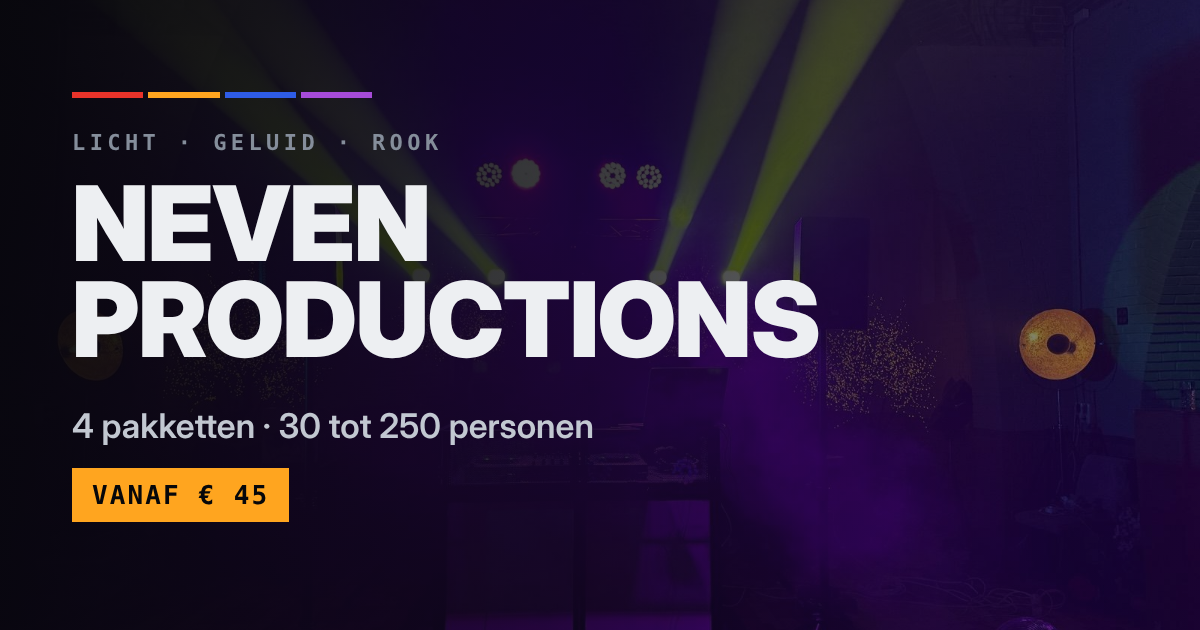
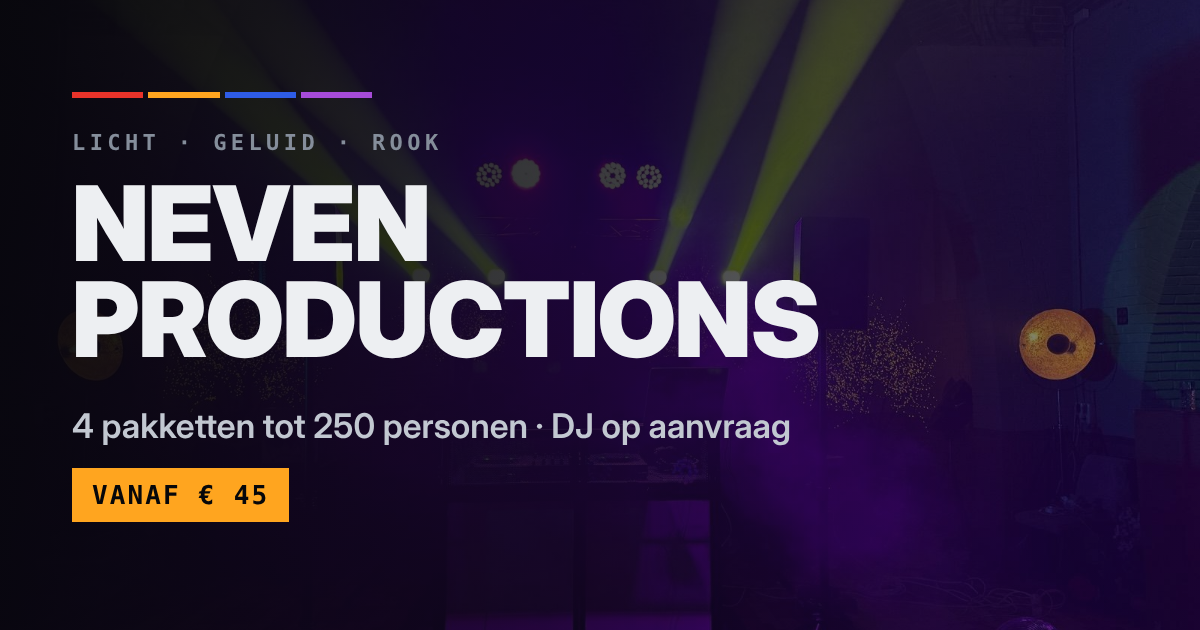
DJ-optie (+ EUR 300), 0-250 personen, editmodus
- Prijzen expliciet excl. DJ, DJ-blok onder de pakketten, DJ-keuze in het formulier
- Cijferstrook: Personen 0-250; meta en og.png bijgewerkt
- edit.js: klik-en-opmerking-modus met ?edit

Claude-Session: https://claude.ai/code/session_01Jk3uGoYRtaEHee8C5ffJiW

Changed region(s): [[0.2158, 0.6333, 0.6783, 0.6937]]

diff --git a/index.html b/index.html
@@ -3,8 +3,8 @@
 <head>
 <meta charset="utf-8" />
 <meta name="viewport" content="width=device-width, initial-scale=1, viewport-fit=cover" />
-<title>Neven Productions — licht, geluid en DJ voor jouw avond</title>
-<meta name="description" content="Licht, geluid en rook voor je feest. Vier pakketten voor 30 tot 250 personen, vanaf € 45." />
+<title>Neven Productions — licht, geluid en rook, DJ op aanvraag</title>
+<meta name="description" content="Licht, geluid en rook voor je feest. Vier pakketten tot 250 personen, vanaf € 45. DJ op aanvraag." />
 <meta name="theme-color" content="#06070a" />
 <link rel="icon" href="favicon.svg" type="image/svg+xml" />
 
@@ -13,7 +13,7 @@
 <meta property="og:type" content="website" />
 <meta property="og:site_name" content="Neven Productions" />
 <meta property="og:title" content="Neven Productions — licht, geluid en DJ" />
-<meta property="og:description" content="Vier pakketten voor feesten van 30 tot 250 personen, vanaf € 45." />
+<meta property="og:description" content="Vier pakketten voor feesten tot 250 personen, vanaf € 45. DJ op aanvraag." />
 <meta property="og:url" content="https://[jouwdomein.nl]/" />
 <meta property="og:image" content="og.png" />
 <meta property="og:image:width" content="1200" />
@@ -251,6 +251,13 @@ footer .rijen{display:flex; flex-wrap:wrap; gap:.75rem 2rem; justify-content:spa
 @media (min-width:900px){ .cases.vier{grid-template-columns:repeat(2,1fr); align-items:stretch} }
 @media (min-width:1180px){ .cases.vier{grid-template-columns:repeat(4,1fr)} }
 
+/* DJ-optie onder de pakketten */
+.dj-optie{margin-top:1.5rem; display:grid; gap:.25rem 1.5rem; align-items:center; background:var(--haze);
+  border:var(--rand); border-left:4px solid rgb(var(--gel-015)); padding:1rem 1.25rem}
+.dj-optie .oog{margin:0; color:rgb(var(--gel-015))}
+.dj-optie p:last-child{margin:0; max-width:none}
+@media (min-width:760px){ .dj-optie{grid-template-columns:auto 1fr} }
+
 /* Kies je kleur */
 .sfeer{display:grid; gap:1.25rem; margin-top:2rem}
 @media (min-width:860px){ .sfeer{grid-template-columns:minmax(0,2fr) minmax(0,1fr); align-items:center} }
@@ -299,7 +306,7 @@ html.intro-loopt body{overflow:hidden}
   let gezien = false;
   try { gezien = sessionStorage.getItem('np-intro') === '1'; } catch (e) {}
   const rustig = matchMedia('(prefers-reduced-motion: reduce)').matches;
-  if (gezien || rustig || /[?&]intro=uit/.test(location.search)) { el.remove(); return; }
+  if (gezien || rustig || /[?&](intro=uit|edit)/.test(location.search)) { el.remove(); return; }
   try { sessionStorage.setItem('np-intro', '1'); } catch (e) {}
   document.documentElement.classList.add('intro-loopt');
 
@@ -505,7 +512,7 @@ html.intro-loopt body{overflow:hidden}
 
 <dl class="cijfers">
   <div><dt>Pakketten</dt><dd>4</dd></div>
-  <div><dt>Gasten</dt><dd>30–250</dd></div>
+  <div><dt>Personen</dt><dd>0–250</dd></div>
   <div><dt>Vanaf</dt><dd>€ 45</dd></div>
   <div><dt>Reactie op aanvraag</dt><dd>&lt;24u</dd></div>
 </dl>
@@ -529,7 +536,7 @@ html.intro-loopt body{overflow:hidden}
         <li>1× JBL PartyBox 310</li>
         <li>2× LED-par op T-bar</li>
       </ul>
-      <p class="prijs"><b>€ 45</b><span>per feest</span></p>
+      <p class="prijs"><b>€ 45</b><span>excl. DJ</span></p>
       <a class="knop" href="#boeken" data-pakket="Tot 30">Dit pakket aanvragen</a>
     </article>
     <article class="case" style="--gel:var(--gel-126)">
@@ -544,7 +551,7 @@ html.intro-loopt body{overflow:hidden}
         <li>4× LED-par op T-bar</li>
         <li>1× rookmachine 900 W</li>
       </ul>
-      <p class="prijs"><b>€ 85</b><span>per feest</span></p>
+      <p class="prijs"><b>€ 85</b><span>excl. DJ</span></p>
       <a class="knop" href="#boeken" data-pakket="Tot 50">Dit pakket aanvragen</a>
     </article>
     <article class="case aanbevolen" style="--gel:var(--gel-015)">
@@ -560,7 +567,7 @@ html.intro-loopt body{overflow:hidden}
         <li>1× LED football moving head</li>
         <li>1× rookmachine 900 W</li>
       </ul>
-      <p class="prijs"><b>€ 200</b><span>per feest</span></p>
+      <p class="prijs"><b>€ 200</b><span>excl. DJ</span></p>
       <a class="knop vol" href="#boeken" data-pakket="Tot 150">Dit pakket aanvragen</a>
     </article>
     <article class="case" style="--gel:var(--gel-106)">
@@ -577,9 +584,13 @@ html.intro-loopt body{overflow:hidden}
         <li>T-bar met 4× LED-par 200 W</li>
         <li>1× rookmachine 900 W</li>
       </ul>
-      <p class="prijs"><b>€ 300</b><span>per feest</span></p>
+      <p class="prijs"><b>€ 300</b><span>excl. DJ</span></p>
       <a class="knop" href="#boeken" data-pakket="Tot 250">Dit pakket aanvragen</a>
     </article>
+  </div>
+  <div class="dj-optie">
+    <p class="oog">Optie</p>
+    <p><b>DJ erbij?</b> Alle prijzen zijn exclusief DJ. Wil je er een DJ bij die de hele avond draait, dan komt er <b>€ 300</b> bij.</p>
   </div>
   <p class="klein">Prijzen per feest. Reisafstand of iets extra's bespreken we vooraf.</p>
 </section>
@@ -689,6 +700,13 @@ html.intro-loopt body{overflow:hidden}
         <option selected>Weet ik nog niet</option>
       </select>
     </div>
+    <div class="veld"><label for="fDj">DJ erbij (+ € 300)</label>
+      <select id="fDj">
+        <option>Nee, zonder DJ</option>
+        <option>Ja, met DJ</option>
+        <option>Weet ik nog niet</option>
+      </select>
+    </div>
     <div class="veld"><label for="fMeer">Toelichting</label>
       <textarea id="fMeer" placeholder="Wat voor avond wordt het? Is er al een installatie? Hoe laat kan ik erin?"></textarea></div>
 
@@ -740,7 +758,8 @@ function bericht() {
     `Datum: ${datum}`,
     `Locatie: ${v('fPlek') || '-'}`,
     `Aantal gasten: ${v('fGasten') || '-'}`,
-    `Pakket: ${$('fPakket').value}`, '',
+    `Pakket: ${$('fPakket').value}`,
+    `DJ: ${$('fDj').value}`, '',
     v('fMeer') || 'Geen toelichting.',
   ].join('\n');
 }
@@ -791,6 +810,9 @@ document.querySelectorAll('.kleuren button').forEach(knop => {
 });
 
 bijwerken();
+
+/* Editmodus voor het bijwerken van de site: alleen met ?edit in de URL */
+if (/[?&]edit/.test(location.search)) { const e = document.createElement('script'); e.src = 'edit.js'; document.body.appendChild(e); }
 </script>
 </body>
 </html>

diff --git a/edit.js b/edit.js
@@ -1,0 +1,99 @@
+/* Editmodus — alleen actief met ?edit in de URL. Klik een element aan, typ een opmerking.
+   Opmerkingen staan in localStorage ('np-edit') en in window.__opmerkingen, zodat Claude ze kan uitlezen. */
+(() => {
+  const KEY = 'np-edit';
+  const laad = () => { try { return JSON.parse(localStorage.getItem(KEY) || '[]'); } catch (e) { return []; } };
+  const bewaar = l => { try { localStorage.setItem(KEY, JSON.stringify(l)); } catch (e) {} window.__opmerkingen = l; };
+  let lijst = laad(); window.__opmerkingen = lijst;
+  let kiezen = true, open = null;
+
+  const css = document.createElement('style');
+  css.textContent = `
+  .npe-hover{outline:2px dashed #ffa51f !important; outline-offset:2px !important; cursor:crosshair !important}
+  .npe-ui,.npe-ui *{font:13px/1.4 ui-monospace,Menlo,monospace !important; letter-spacing:0 !important; text-transform:none !important}
+  .npe-balk{position:fixed; left:12px; bottom:12px; z-index:2147483000; display:flex; gap:6px; align-items:center;
+    background:#111; color:#eee; border:1px solid #ffa51f; padding:6px 8px}
+  .npe-balk button,.npe-pop button{background:#222; color:#eee; border:1px solid #444; padding:5px 9px; cursor:pointer}
+  .npe-balk button.aan{background:#ffa51f; color:#000; border-color:#ffa51f}
+  @media (max-width:759px){ .npe-balk{bottom:76px} }
+  .npe-pop{position:fixed; z-index:2147483001; width:min(340px,92vw); background:#111; color:#eee; border:1px solid #ffa51f; padding:10px}
+  .npe-pop textarea{width:100%; min-height:80px; background:#000; color:#fff; border:1px solid #444; padding:6px; box-sizing:border-box}
+  .npe-pop .wat{color:#999; margin-bottom:6px; max-height:3.6em; overflow:hidden}
+  .npe-pop .rij{display:flex; gap:6px; justify-content:flex-end; margin-top:6px}
+  .npe-nr{position:absolute; z-index:2147482999; background:#ffa51f; color:#000; font:700 11px/18px ui-monospace,monospace;
+    min-width:18px; height:18px; text-align:center; border-radius:9px; pointer-events:none}`;
+  document.head.appendChild(css);
+
+  const balk = document.createElement('div'); balk.className = 'npe-ui npe-balk';
+  balk.innerHTML = `<b>Editmodus</b><button data-a="kies" class="aan">Selecteren: aan</button>
+    <span data-a="n"></span><button data-a="kopie">Kopieer</button><button data-a="wis">Wis alles</button>`;
+  document.body.appendChild(balk);
+
+  function selector(el) {
+    if (el.id) return '#' + el.id;
+    const pad = [];
+    while (el && el !== document.body && pad.length < 6) {
+      let s = el.tagName.toLowerCase();
+      if (el.id) { pad.unshift('#' + el.id); break; }
+      const cls = [...el.classList].filter(c => !c.startsWith('npe-'))[0];
+      if (cls) s += '.' + cls;
+      const p = el.parentElement;
+      if (p) { const zus = [...p.children].filter(c => c.tagName === el.tagName); if (zus.length > 1) s += `:nth-of-type(${zus.indexOf(el) + 1})`; }
+      pad.unshift(s); el = p;
+    }
+    return pad.join(' > ');
+  }
+  const omschrijf = el => (el.alt || el.getAttribute('aria-label') || el.innerText || el.tagName).replace(/\s+/g, ' ').trim().slice(0, 90);
+
+  function teken() {
+    document.querySelectorAll('.npe-nr').forEach(n => n.remove());
+    lijst.forEach((o, i) => {
+      const el = document.querySelector(o.selector); if (!el) return;
+      const r = el.getBoundingClientRect(), n = document.createElement('div');
+      n.className = 'npe-nr'; n.textContent = i + 1;
+      n.style.left = (r.left + scrollX - 6) + 'px'; n.style.top = (r.top + scrollY - 6) + 'px';
+      document.body.appendChild(n);
+    });
+    balk.querySelector('[data-a=n]').textContent = `${lijst.length} opmerking${lijst.length === 1 ? '' : 'en'}`;
+  }
+
+  function popup(el, x, y) {
+    sluit();
+    const p = document.createElement('div'); p.className = 'npe-ui npe-pop';
+    p.innerHTML = `<div class="wat"></div><textarea placeholder="Wat moet hier anders?"></textarea>
+      <div class="rij"><button data-a="weg">Annuleer</button><button data-a="ok">Opslaan</button></div>`;
+    p.querySelector('.wat').textContent = '→ ' + omschrijf(el);
+    p.style.left = Math.min(x, innerWidth - 360) + 'px'; p.style.top = Math.min(y + 12, innerHeight - 190) + 'px';
+    document.body.appendChild(p); open = p; p.querySelector('textarea').focus({ preventScroll: true });
+    p.addEventListener('click', e => {
+      const a = e.target.dataset.a; if (!a) return;
+      if (a === 'ok') {
+        const t = p.querySelector('textarea').value.trim();
+        if (t) { lijst.push({ selector: selector(el), element: omschrijf(el), opmerking: t, tijd: new Date().toISOString() }); bewaar(lijst); }
+      }
+      sluit(); teken();
+    });
+    p.addEventListener('keydown', e => { if (e.key === 'Enter' && (e.metaKey || e.ctrlKey)) p.querySelector('[data-a=ok]').click(); if (e.key === 'Escape') sluit(); });
+  }
+  function sluit() { if (open) { open.remove(); open = null; } }
+
+  let vorige = null;
+  document.addEventListener('mouseover', e => {
+    if (!kiezen || e.target.closest('.npe-ui')) return;
+    vorige && vorige.classList.remove('npe-hover'); vorige = e.target; vorige.classList.add('npe-hover');
+  }, true);
+  document.addEventListener('click', e => {
+    if (e.target.closest('.npe-ui')) return;
+    if (!kiezen) return;
+    e.preventDefault(); e.stopPropagation();
+    e.target.classList.remove('npe-hover'); popup(e.target, e.clientX, e.clientY);
+  }, true);
+
+  balk.addEventListener('click', e => {
+    const a = e.target.dataset.a;
+    if (a === 'kies') { kiezen = !kiezen; e.target.classList.toggle('aan', kiezen); e.target.textContent = 'Selecteren: ' + (kiezen ? 'aan' : 'uit'); vorige && vorige.classList.remove('npe-hover'); }
+    if (a === 'kopie') navigator.clipboard && navigator.clipboard.writeText(lijst.map((o, i) => `${i + 1}. [${o.element}] ${o.opmerking}`).join('\n'));
+    if (a === 'wis') { lijst = []; bewaar(lijst); teken(); }
+  });
+  addEventListener('resize', teken); addEventListener('load', teken); setTimeout(teken, 800);
+})();

diff --git a/README.md b/README.md
@@ -10,7 +10,7 @@ WhatsApp-groepen.
 |---|---|
 | `index.html` | de hele site: opmaak, inhoud en script |
 | `favicon.svg` | tabbladicoon in de vier gelkleuren |
-| `og.png` | deelafbeelding van 1200×630 voor WhatsApp/Instagram-voorbeelden (bevat "Vanaf € 45" en "30 tot 250 personen": opnieuw maken als dat verandert) |
+| `og.png` | deelafbeelding van 1200×630 voor WhatsApp/Instagram-voorbeelden (bevat "Vanaf € 45", "tot 250 personen" en "DJ op aanvraag": opnieuw maken als dat verandert) |
 | `img/` | eigen foto's (JPG, max. 1600 px) en de hero-loop `hero.mp4`/`hero.webm` (8 s, zonder geluid, ca. 0,4 MB) |
 
 ## Wat nog ingevuld moet worden
@@ -34,6 +34,8 @@ Alles tussen vierkante haken: zoek in `index.html` op `[`.
 | tot 150 pers. | geluidsset tot 150 pers., 2 m truss met 2 LED-pars en 2× moving head 150 W, LED football moving head, rookmachine 900 W | € 200 |
 | tot 250 pers. (binnen) | geluidsset tot 250 pers., 2 m truss met 4× moving head 150 W, LED football moving head, T-bar met 4× LED-par 200 W, rookmachine 900 W | € 300 |
 
+Alle prijzen zijn exclusief DJ; met DJ komt er € 300 bij (opgegeven 10 oktober 2026).
+
 **Nog nalopen (aanname, niet van Beau):** de korte pitch per pakket, de label "per feest", de stappen
 "Van aanvraag tot afbouw" en de antwoorden bij de veelgestelde vragen (stroom, opbouwtijd, buiten).
 
@@ -50,6 +52,13 @@ Hij stopt bij klik, Esc, Enter of spatie, met een vangnet na 6,5 s. Met `?intro=
 sla je hem over tijdens het bouwen.
 
 Timing aanpassen: het object `T` bovenin het intro-script.
+
+## Editmodus
+
+Zet `?edit` achter de URL (bijv. `index.html?edit`). Klik een element aan en typ een opmerking.
+Opmerkingen blijven in de browser bewaard (localStorage `np-edit`) en zijn uit te lezen via
+`window.__opmerkingen` of met "Kopieer" in de balk. De intro speelt niet in deze modus.
+Zonder `?edit` laadt `edit.js` niet en merkt een bezoeker er niets van.
 
 ## Hoe het formulier werkt
 
